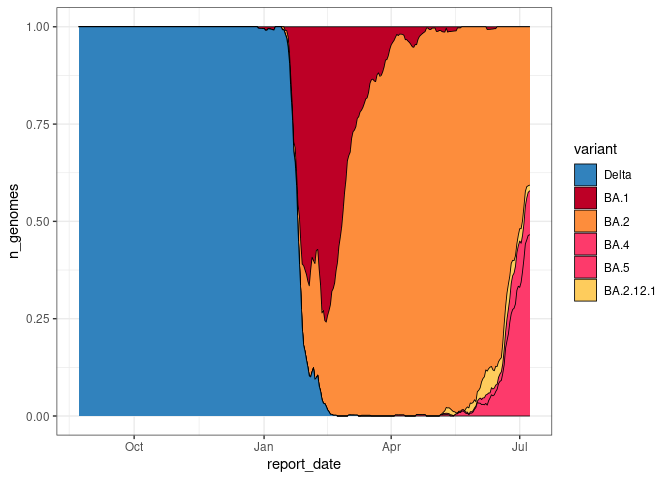
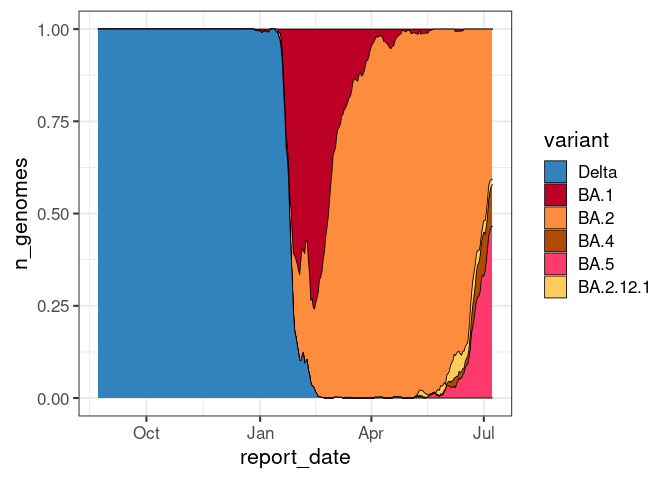
render changes to Rmd

Changed region(s): [[0.0, 0.0, 0.9688, 1.0], [0.8125, 0.875, 0.8438, 0.9062]]

diff --git a/README.md b/README.md
@@ -1,23 +1,19 @@
 
 # Prevelence of SARS-CoV-2 Variants of Concern in Aoteoroa New Zealand
 
-The `data/` directory contains two csv files,
-`community_variant_counts.csv` and `border_variant_counts.csv`. Each of
-these files contains a rolling 7-day average for the number of genomes
-from selected SARS-CoV2-2 lineages or variants of concern sequenced by
-ESR for community-acquired and border-associated cases respectively
+The `data/` directory contains two csv files, `community_variant_counts.csv` and `border_variant_counts.csv`. Each of these files contains a rolling 7-day average for the number of genomes from selected SARS-CoV2-2 lineages or variants of concern sequenced by ESR for community-acquired and border-associated cases respectively
 
-This data is derived from all cases referred to to ESR for sequencing,
-and not a randomised sample of all positive cases.
+This data is derived from all cases referred to to ESR for sequencing, and not a randomised sample of all positive cases.
 
 ## Example
 
-A brief example of how the data might be used
+A brief example of how the data might be used, using the R language.
 
-``` r
+``` {.r}
 library(lubridate)
 library(tidyr)
 library(ggplot2)
+
 
 voc <- read.csv("data/community_variant_counts.csv")
 voc$report_date <- ymd(voc$report_date)
@@ -26,7 +22,7 @@ tidy_voc <- pivot_longer(voc, !report_date, names_to = "variant", values_to = "n
 voc_pal <-   c(`Delta` = "#3182bd", 
                `BA.1` = "#bd0026", 
                `BA.2` = "#fd8d3c", 
-               `BA.4` = "#FD3A6B",
+               `BA.4` = "#B14B02",
                `BA.5` = "#FD3A6B",
                `BA.2.12.1` = "#fecc5c"
 )
@@ -35,13 +31,11 @@ voc_pal <-   c(`Delta` = "#3182bd",
 ggplot(tidy_voc, aes(report_date, n_genomes, fill=variant)) + 
     geom_area(position = 'fill', colour='black', size=0.3) +
     scale_fill_manual(values=voc_pal)+
-    theme_bw()  
+    theme_bw(base_size = 16)  
 ```
 
-![](images/plot-1.png)<!-- -->
+![](images/plot-1.png)
 
 ## License
 
-The data is released under a [CC-BY 4.0 international
-license](https://creativecommons.org/licenses/by/4.0/). You are free to
-copy, distribute or adapt this data as long as you acknowledge ESR.
+The data is released under a [CC-BY 4.0 international license](https://creativecommons.org/licenses/by/4.0/). You are free to copy, distribute or adapt this data as long as you acknowledge ESR.
